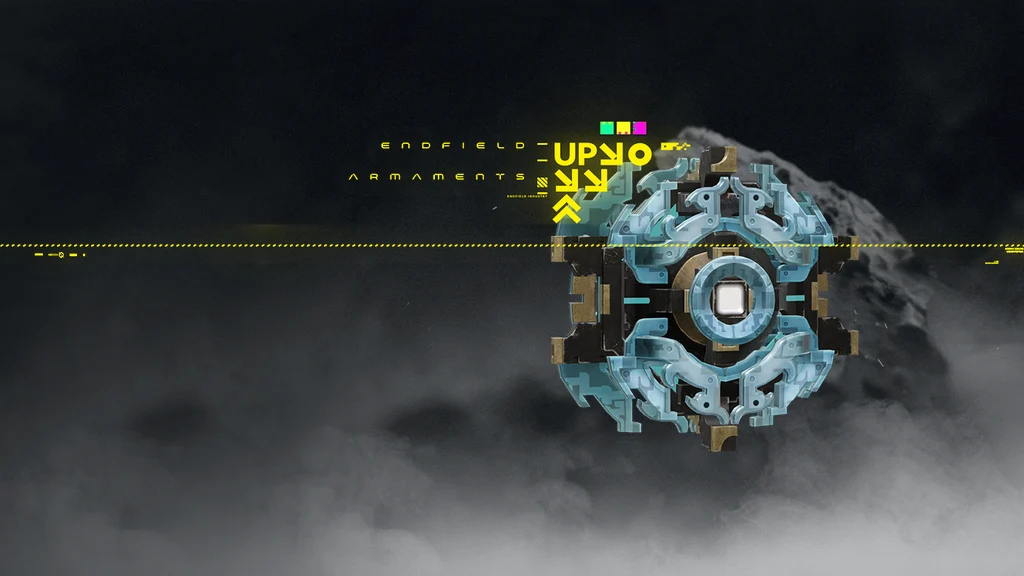
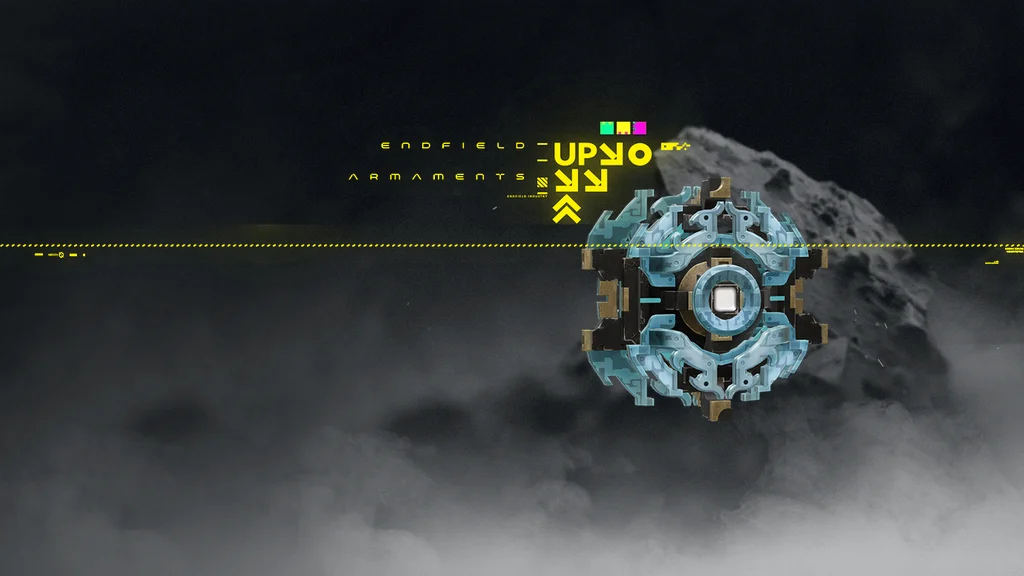
Shrink solid arts units and move guns under the UP arrows
Arts units now match Delivery Guaranteed's opaque area, so solid ones
(Lone Barge, Type 42, Umbra, Dreams of the Starry Beach) no longer look
bigger than spiky ones in the same box. Guns sit 60 px up and right, just
below-right of the UP block where its arrows point.

Changed region(s): [[0.5312, 0.25, 0.8438, 0.7812]]

diff --git a/scripts/issue-banner.py b/scripts/issue-banner.py
@@ -42,8 +42,11 @@ RULE_ROWS = (264, 346)
 
 # Where the weapon goes on the banner (x0, y0, x1, y1).
 LONG_BOX = (25 + SHIFT, 65, 665 + SHIFT, 525)      # swords, greatswords, lances
-PISTOL_BOX = (120 + SHIFT, 190, 580 + SHIFT, 480)
+PISTOL_BOX = (180 + SHIFT, 130, 640 + SHIFT, 420)  # just below-right of UP, where its arrows point
 COMPACT_SIZE, COMPACT_CENTRE = 310, (405 + SHIFT, 300)  # arts units
+# Solid arts units look bigger than spiky ones in the same box, so they
+# shrink until their opaque area matches Delivery Guaranteed's.
+COMPACT_AREA = 42_000
 # Lances slide this far up-left along their shaft, bringing the head up to
 # the UP ornaments; the butt may leave the banner.
 LANCE_SLIDE = 140
@@ -117,6 +120,10 @@ def banner(weapon_id, render, from_guide=False):
     if kind == 'funnel':
         (cx, cy), h = COMPACT_CENTRE, COMPACT_SIZE // 2
         weapon, at = fit(weapon, (cx - h, cy - h, cx + h, cy + h))
+        area = weapon.getchannel('A').point(lambda a: 255 if a > 128 else 0).histogram()[255]
+        if area > COMPACT_AREA:
+            h = round(h * (COMPACT_AREA / area) ** 0.5)
+            weapon, at = fit(weapon, (cx - h, cy - h, cx + h, cy + h))
     else:
         weapon, at = fit(weapon, PISTOL_BOX if kind == 'pistol' else LONG_BOX)
     if kind == 'lance':
